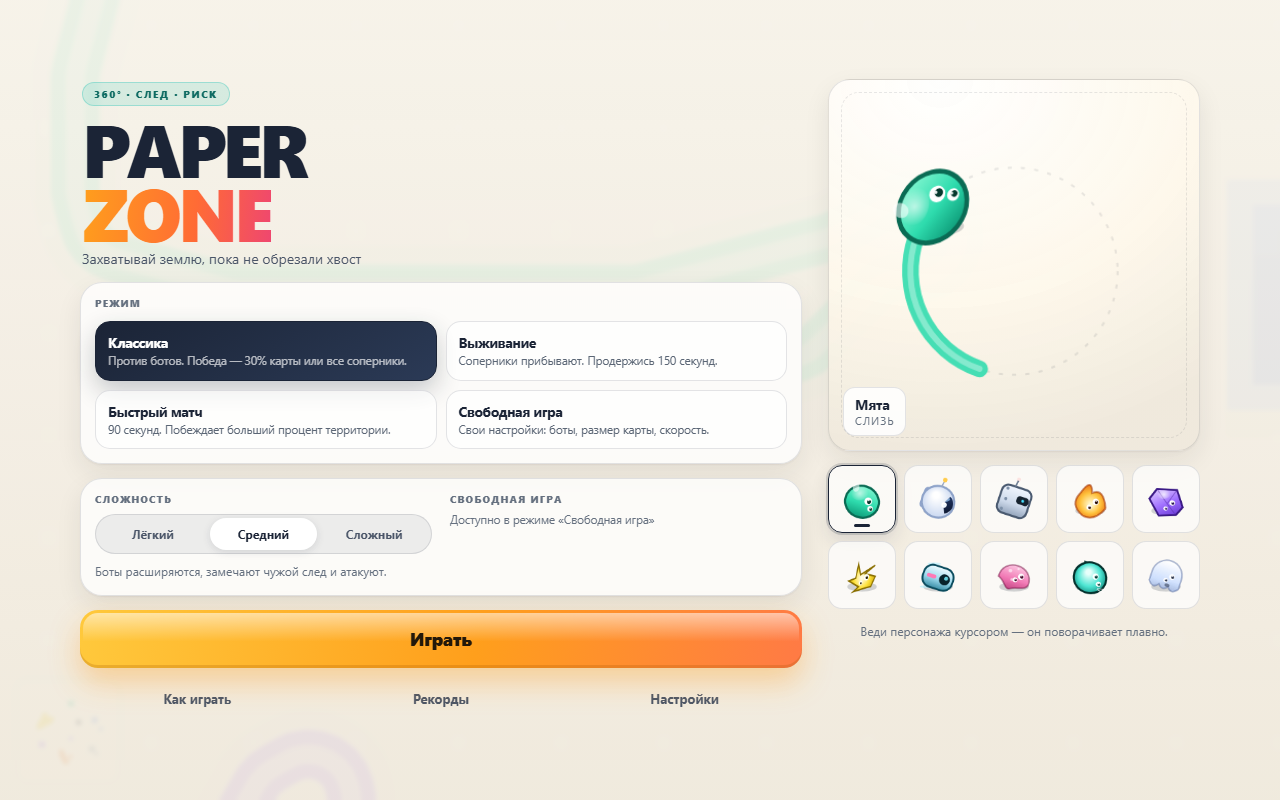
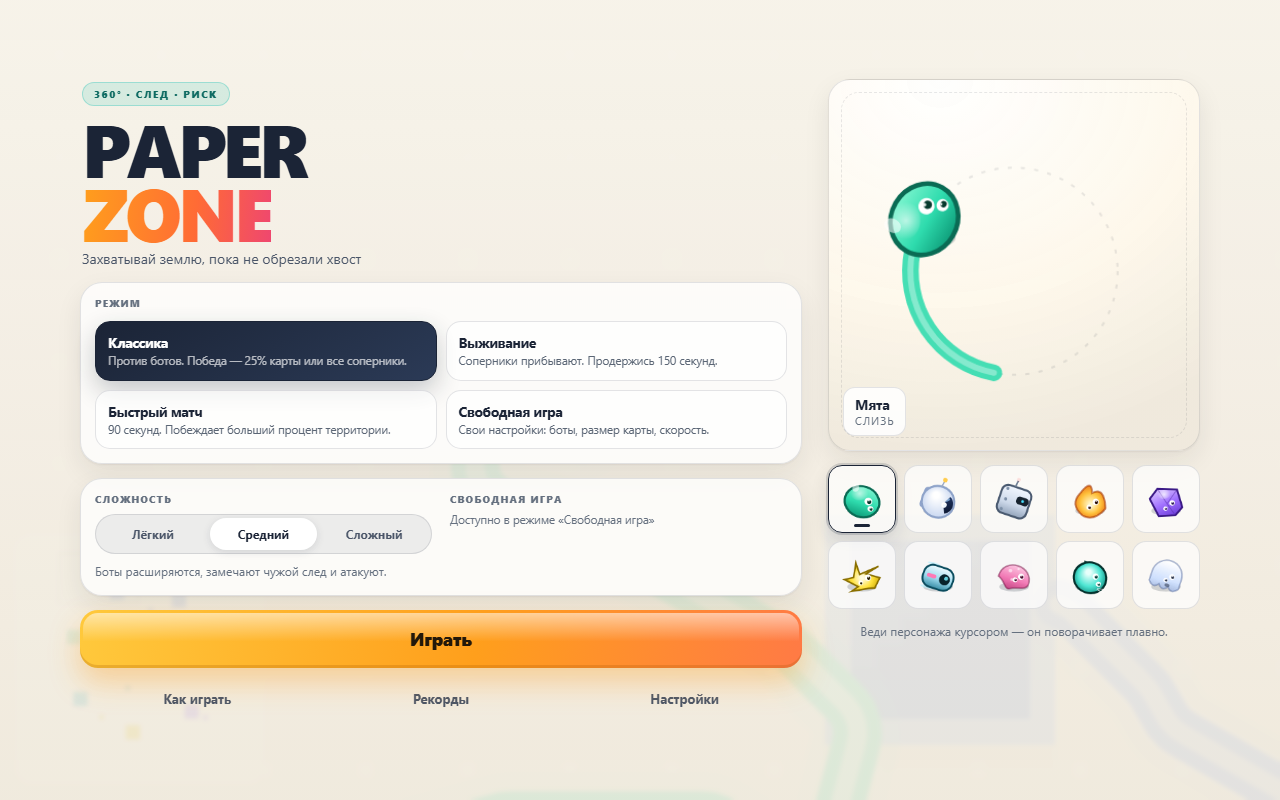
v2.2: карта 220, ники ботов, мини-карта с землёй, убийство забирает территорию

diff --git a/src/engine.js b/src/engine.js
@@ -24,6 +24,15 @@
   var PHYS = C.PHYS;
   var SKINS = deps.Skins.SKINS;
   var skinById = deps.Skins.skinById;
+  /* Ники ботов: короткие, «иo»-шные, без цифр и без обидного. */
+  var BOT_NAMES = [
+    'Кувалда', 'Пиксель', 'Вихрь', 'Шустрик', 'Ниндзя', 'Барон', 'Титан', 'Оса',
+    'Фантом', 'Комета', 'Зефир', 'Кактус', 'Буран', 'Кобра', 'Магма', 'Нейрон',
+    'Оникс', 'Пингвин', 'Ракета', 'Скарабей', 'Тайфун', 'Уголёк', 'Феникс', 'Хаос',
+    'Циклон', 'Шершень', 'Юпитер', 'Ястреб', 'Барс', 'Гром', 'Дизель', 'Жнец',
+    'Зигзаг', 'Импульс', 'Клинок', 'Лавина', 'Мираж', 'Прайд', 'Радар', 'Сокол'
+  ];
+
   var MAX_PLAYERS = C.MAX_PLAYERS;
   var clamp = C.clamp;
   var bitOf = C.bitOf;
@@ -34,7 +43,7 @@
   var FIXED_STEP = 1 / 60;
 
   var MODE_INFO = {
-    classic: { title: 'Классика', desc: 'Против ботов. Победа — 30% карты или все соперники.' },
+    classic: { title: 'Классика', desc: 'Против ботов. Победа — 25% карты или все соперники.' },
     survival: { title: 'Выживание', desc: 'Соперники прибывают. Продержись 150 секунд.' },
     quick: { title: 'Быстрый матч', desc: '90 секунд. Побеждает больший процент территории.' },
     free: { title: 'Свободная игра', desc: 'Свои настройки: боты, размер карты, скорость.' }
@@ -43,13 +52,13 @@
   var DEFAULTS = {
     mode: 'classic',
     difficulty: 'medium',
-    mapW: 160,
-    mapH: 160,
+    mapW: 220,
+    mapH: 220,
     botCount: 5,
     speed: PHYS.speed,
     playerSkin: 'mint',
     seed: 20261024,
-    goalPercent: 30,
+    goalPercent: 25,
     survivalGoal: 150,
     timeLimit: 90,
     autopilot: false
@@ -91,12 +100,25 @@
           return { bots: clamp(c.botCount | 0, 0, MAX_PLAYERS - 1), timeLimit: 0, survivalGoal: 0,
             spawnEvery: 0, maxBots: MAX_PLAYERS - 1, goalPercent: 0, difficulty: d };
         default:
-          return { bots: 5, timeLimit: 0, survivalGoal: 0, spawnEvery: 0, maxBots: 5,
-            goalPercent: c.goalPercent || 30, difficulty: d };
+          return { bots: 6, timeLimit: 0, survivalGoal: 0, spawnEvery: 0, maxBots: 6,
+            goalPercent: c.goalPercent || 25, difficulty: d };
       }
     }
 
     /* ------------------------------ старт ------------------------------ */
+
+    nextName() {
+      if (!this._namePool || !this._namePool.length) {
+        var pool = BOT_NAMES.slice();
+        for (var i = pool.length - 1; i > 0; i--) {
+          var j = Math.floor(this.rng() * (i + 1));
+          var t = pool[i]; pool[i] = pool[j]; pool[j] = t;
+        }
+        this._namePool = pool;
+        this._nameUsed = 0;
+      }
+      return this._namePool[this._nameUsed++ % this._namePool.length];
+    }
 
     setup() {
       var grid = this.grid;
@@ -119,7 +141,7 @@
         var outward = Math.atan2(py - cy, px - cx);
         this.addPlayer({
           id: i + 1, isBot: !isHuman || !!this.cfg.autopilot,
-          name: isHuman ? 'Ты' : 'Бот ' + i,
+          name: isHuman ? 'Ты' : this.nextName(),
           x: px + 0.5, y: py + 0.5, angle: outward, skinId: skin, startSize: size
         });
       }
@@ -306,7 +328,11 @@
       p.deathCause = cause;
       this.grid.clearTrail(p.id);
       p.clearTrail();
-      if (p.id !== 1) this.grid.releaseTerritory(p.id);
+      if (killer && killer.alive && killer.id !== p.id) {
+        this.grid.transferTerritory(p.id, killer.id);
+      } else if (p.id !== 1) {
+        this.grid.releaseTerritory(p.id);
+      }
       if (killer && killer.alive && killer.id !== p.id) killer.kills++;
       if (p.bot) p.bot = null;
       if (p.isBot && p.id !== 1) this.respawns.push({ player: p, at: this.time + 6 });
@@ -427,7 +453,7 @@
         if (!free) continue;
         var level = this.time > 70 ? 'hard' : (this.time > 35 ? 'medium' : this.difficulty);
         var p = this.addPlayer({
-          id: id, isBot: true, name: 'Бот ' + id,
+          id: id, isBot: true, name: this.nextName(),
           x: x + 0.5, y: y + 0.5, angle: this.rng() * TAU,
           skinId: this.pickSkin(this.players.map(function (q) { return q.skinId; })),
           startSize: size

diff --git a/tools/selftest.js b/tools/selftest.js
@@ -101,6 +101,25 @@
       return !document.getElementById('screen-menu').classList.contains('is-hidden');
     }
 
+    function minimapLand() {
+      var r = PZ.renderer.minimapRect;
+      if (!r) return 0;
+      var dpr = PZ.renderer.dpr || 1;
+      var ctx = PZ.renderer.canvas.getContext('2d');
+      var img;
+      try {
+        img = ctx.getImageData(r.x * dpr, r.y * dpr, r.size * dpr, r.size * dpr).data;
+      } catch (e) { return 0; }
+      var def = (window.PIO && window.PIO.skinById) ? window.PIO.skinById(PZ.save.skinId) : null;
+      var hex = (def ? def.land : '#22c39a').replace('#', '');
+      var lr = parseInt(hex.slice(0, 2), 16), lg = parseInt(hex.slice(2, 4), 16), lb = parseInt(hex.slice(4, 6), 16);
+      var hits = 0;
+      for (var i = 0; i < img.length; i += 4) {
+        if (Math.abs(img[i] - lr) + Math.abs(img[i + 1] - lg) + Math.abs(img[i + 2] - lb) < 60) hits++;
+      }
+      return hits;
+    }
+
     async function freshMatch() {
       PZ.startMatch();
       await wait(420);
@@ -176,6 +195,7 @@
 
     /* ------------------------------ захват ---------------------------- */
     var before = game.grid.percent(1);
+    var mmBefore = minimapLand();
 
     /* Ведём указателем по прямоугольнику вокруг своей земли, затем на центр:
      * детерминированная петля без самопересечения. */
@@ -216,6 +236,11 @@
       { before: +before.toFixed(2), after: +after.toFixed(2), trail: game.human.trail.size });
     check('след очищен после захвата', game.human.trail.size === 0, game.human.trail.size);
     check('эффект захвата отрисован', (PZ.renderer.captureCount || 0) > 0, PZ.renderer.captureCount || 0);
+    /* мини-карта: земли игрока на ней должно стать больше после захвата */
+    var mmAfter = minimapLand();
+    check('мини-карта показывает землю игрока', mmAfter > mmBefore + 20,
+      { before: mmBefore, after: mmAfter });
+
     check('HUD показывает выросший процент', parseFloat(document.getElementById('hud-percent').textContent) >= before - 0.01,
       document.getElementById('hud-percent').textContent);
 
@@ -286,10 +311,10 @@
     for (var waitBots = 0; waitBots < 40; waitBots++) {
       botList = PZ.game.aliveBots();
       activeBots = botList.filter(function (b) { return b.trail.size > 0; }).length;
-      if (PZ.game.players.length === 6 && activeBots >= 2) break;
+      if (PZ.game.players.length === 7 && activeBots >= 2) break;
       await wait(150);
     }
-    check('в классике 6 игроков', PZ.game.players.length === 6, PZ.game.players.length);
+    check('в классике 7 игроков', PZ.game.players.length === 7, PZ.game.players.length);
     check('боты живы и тянут след', botList.length >= 4 && activeBots >= 2,
       { bots: botList.length, withTrail: activeBots });
     check('таблица лидеров показывает несколько игроков', document.querySelectorAll('#board li').length >= 2,

diff --git a/src/renderer.js b/src/renderer.js
@@ -505,35 +505,58 @@
     drawMinimap(ctx, W, H) {
       if (!this.minimapOn) return;
       var g = this.game.grid;
-      var size = W < 620 ? 74 : 104;
-      var pad = W < 620 ? 10 : 16;
+      var small = Math.min(W, H) < 620;
+      var size = Math.max(small ? 112 : 168, Math.min(small ? 168 : 248, Math.min(W, H) * (small ? 0.27 : 0.32)));
+      var pad = small ? 10 : 16;
       var x = pad;
       var y = H - size - pad;
-      var scale = (size - 8) / Math.max(g.w, g.h);
+      var scale = (size - 10) / Math.max(g.w, g.h);
       var mw = g.w * scale, mh = g.h * scale;
       var ox = x + (size - mw) / 2, oy = y + (size - mh) / 2;
+      this.minimapRect = { x: x, y: y, size: size };
 
       ctx.save();
       ctx.beginPath();
-      if (ctx.roundRect) ctx.roundRect(x, y, size, size, 12);
+      if (ctx.roundRect) ctx.roundRect(x, y, size, size, 16);
       else ctx.rect(x, y, size, size);
-      ctx.fillStyle = 'rgba(246,242,233,0.92)';
+      ctx.fillStyle = 'rgba(250,247,240,0.96)';
       ctx.fill();
-      ctx.strokeStyle = 'rgba(40,32,20,0.18)';
-      ctx.lineWidth = 1;
-      ctx.stroke();
+      ctx.save();
+      ctx.clip();
 
+      // земля игроков — цветными пятнами
+      ctx.imageSmoothingEnabled = true;
       ctx.drawImage(this.terr, ox, oy, mw, mh);
 
+      // рамка видимой области
+      var vz = this.cam.zoom;
+      var vw = (W / vz) * scale, vh = (H / vz) * scale;
+      var vx = ox + (this.cam.x - W / (2 * vz)) * scale;
+      var vy = oy + (this.cam.y - H / (2 * vz)) * scale;
+      ctx.strokeStyle = 'rgba(29,38,56,0.30)';
+      ctx.lineWidth = 1;
+      ctx.strokeRect(vx, vy, vw, vh);
+
+      // головы
       for (var i = 0; i < this.game.players.length; i++) {
         var p = this.game.players[i];
         if (!p.alive) continue;
         var px = ox + p.x * scale, py = oy + p.y * scale;
         ctx.beginPath();
-        ctx.arc(px, py, i === 0 ? 2.8 : 1.9, 0, TAU);
+        ctx.arc(px, py, i === 0 ? 3.6 : 2.4, 0, TAU);
         ctx.fillStyle = i === 0 ? '#1d2638' : p.palette.land;
         ctx.fill();
+        if (i === 0) {
+          ctx.strokeStyle = '#fff';
+          ctx.lineWidth = 1.6;
+          ctx.stroke();
+        }
       }
+      ctx.restore();
+
+      ctx.strokeStyle = 'rgba(40,32,20,0.20)';
+      ctx.lineWidth = 1.5;
+      ctx.stroke();
       ctx.restore();
     }
   }

diff --git a/index.html b/index.html
@@ -79,9 +79,9 @@
               </label>
               <label class="mini__row">Карта
                 <select id="opt-size">
-                  <option value="small">120×120</option>
-                  <option value="medium" selected>160×160</option>
-                  <option value="large">220×220</option>
+                  <option value="small">160×160</option>
+                  <option value="medium" selected>220×220</option>
+                  <option value="large">280×280</option>
                 </select>
               </label>
             </div>
@@ -133,7 +133,7 @@
       </div>
       <div class="panel rule">
         <h3>Победа</h3>
-        <p>Классика: 30% карты. Выживание: продержаться 150 секунд. Быстрый матч: больше территории за 90 секунд. Погибшие боты возвращаются — арена не пустеет.</p>
+        <p>Классика: 25% карты. Выживание: продержаться 150 секунд. Быстрый матч: больше территории за 90 секунд. Погибшие боты возвращаются — арена не пустеет.</p>
       </div>
       <div class="panel rule">
         <h3>Клавиши</h3>

diff --git a/src/main.js b/src/main.js
@@ -7,7 +7,7 @@
   var PIO = window.PIO;
   var $ = function (id) { return document.getElementById(id); };
   var STEP = PIO.FIXED_STEP;
-  var SIZE_MAP = { small: 120, medium: 160, large: 220 };
+  var SIZE_MAP = { small: 160, medium: 220, large: 280 };
 
   var canvas = $('field');
   var renderer = new PIO.Renderer(canvas);
@@ -52,7 +52,7 @@
   function startMatch() {
     var mapSize = config.mode === 'free'
       ? (SIZE_MAP[config.mapSize] || 160)
-      : (config.mode === 'quick' ? 150 : 160);
+      : (config.mode === 'quick' ? 190 : 220);
     var speed = config.mode === 'free' ? config.speed : 13.5;
     var seed = (Date.now() ^ ((Math.random() * 0xffffffff) >>> 0)) >>> 0;
 

diff --git a/src/core.js b/src/core.js
@@ -307,6 +307,17 @@
     }
 
     /* Полный сброс территории игрока в нейтраль (смерть). */
+    /* Убийца забирает всю землю жертвы (как в Paper.io 2). */
+    transferTerritory(fromId, toId) {
+      if (!fromId || !toId || fromId === toId) return 0;
+      var n = 0;
+      for (var i = 0; i < this.size; i++) {
+        if (this.owner[i] === fromId) { this.setOwnerIdx(i, toId); n++; }
+      }
+      this.clearTrail(fromId);
+      return n;
+    }
+
     releaseTerritory(id) {
       var n = 0;
       for (var i = 0; i < this.size; i++) {

diff --git a/README.md b/README.md
@@ -63,10 +63,10 @@ Node нужен только для сервера, тестов и провер
 
 | Режим | Правила |
 |---|---|
-| **Классика** | против 5 ботов; победа — 30% карты. Погибшие боты возвращаются через несколько секунд, арена не пустеет |
+| **Классика** | против 6 ботов; победа — 25% карты. Погибшие боты возвращаются через несколько секунд, арена не пустеет |
 | **Выживание** | старт с 3 ботами, каждые 16 секунд прибывает новый (до 7), к 70-й секунде они злее; победа — продержаться 150 секунд |
 | **Быстрый матч** | 90 секунд, 5 ботов; в конце сравнивается ваш процент с лучшим у соперника |
-| **Свободная игра** | 0–7 ботов, карта 120×120 / 160×160 / 220×220, скорость 9–18 клеток/с |
+| **Свободная игра** | 0–7 ботов, карта 160×160 / 220×220 / 280×280, скорость 9–18 клеток/с |
 
 Сложность (Лёгкий / Средний / Сложный) меняет у ботов риск, агрессию, зрение и
 частоту решений, а не только скорость.
@@ -83,6 +83,9 @@ Node нужен только для сервера, тестов и провер
    любая — вогнутая, с самопересечением, у самого края.
 4. **Смерть.** Свой след — смерть. Чужой след — оружие: пересекли его, и владелец
    погибает. Край карты смертелен. Лобовое вне своей земли убивает обоих.
+4. **Убийство забирает землю.** Перерезал чужой след — вся территория жертвы
+   переходит тебе, а не растворяется в нейтрале. Погиб от стены — земля уходит
+   в нейтрал, отдавать её некому.
 5. **Площадь.** Считается по фактическим клеткам: `клетки игрока / свободные
    клетки карты`. Уже своя клетка не начисляется повторно.
 
